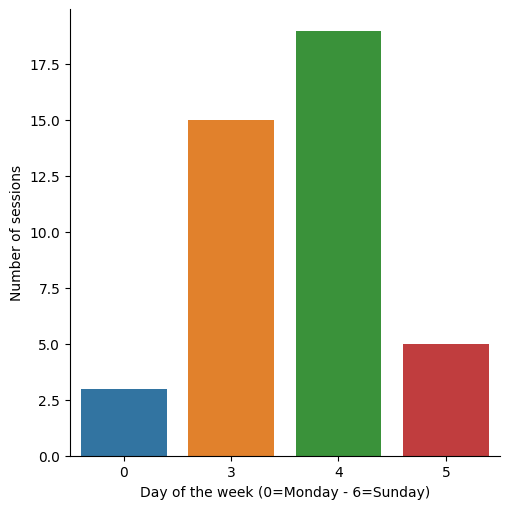
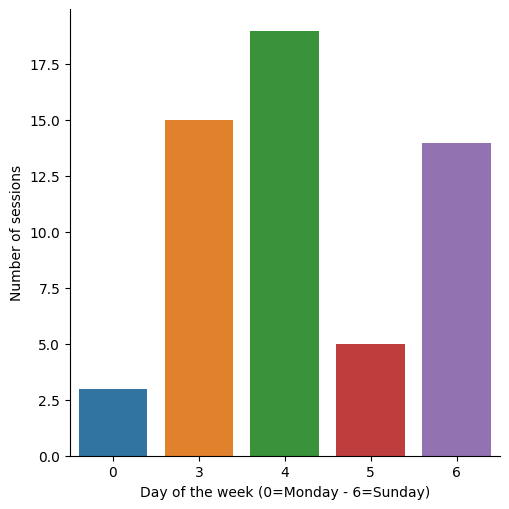
"Stats generated 2021-10-11"

diff --git a/all/2021/10/weekdays/6/index.html b/all/2021/10/weekdays/6/index.html
@@ -1,0 +1,29 @@
+<!DOCTYPE html>
+<html>
+  <head>
+    <meta charset="utf-8"/>
+    <title>Sundays October 2021</title>
+    <link rel="stylesheet" href="../../../../../styles.css"/>
+  </head>
+  <body>
+    <div id="container">
+      <nav>
+        <ul>
+          
+            <li><a href="../../">October 2021</a></li>
+            <li class="separator"></li>
+          
+          
+        </ul>
+      </nav>
+      <main>
+        <h1>Sundays October 2021</h1>
+        
+          <h2>Number of sessions per hour</h2>
+          <img src="sessions.png" alt="Number of sessions per hour"/>
+        
+        
+      </main>
+    </div>
+  </body>
+</html>

diff --git a/all/2021/10/days/10/index.html b/all/2021/10/days/10/index.html
@@ -1,0 +1,29 @@
+<!DOCTYPE html>
+<html>
+  <head>
+    <meta charset="utf-8"/>
+    <title>10 October 2021</title>
+    <link rel="stylesheet" href="../../../../../styles.css"/>
+  </head>
+  <body>
+    <div id="container">
+      <nav>
+        <ul>
+          
+            <li><a href="../../">October 2021</a></li>
+            <li class="separator"></li>
+          
+          
+        </ul>
+      </nav>
+      <main>
+        <h1>10 October 2021</h1>
+        
+          <h2>Number of sessions per hour</h2>
+          <img src="sessions.png" alt="Number of sessions per hour"/>
+        
+        
+      </main>
+    </div>
+  </body>
+</html>

diff --git a/all/2021/10/index.html b/all/2021/10/index.html
@@ -35,6 +35,10 @@
             
           
             
+              <li><a href="weekdays/6/">Sunday</a></li>
+            
+          
+            
               <li><span>Day of Month</span></li>
             
           
@@ -56,6 +60,10 @@
           
             
               <li><a href="days/9/">9</a></li>
+            
+          
+            
+              <li><a href="days/10/">10</a></li>
             
           
         </ul>

diff --git a/all/2021/index.html b/all/2021/index.html
@@ -143,9 +143,9 @@
                   
                     <td>10.0</td>
                   
-                    <td>42.0</td>
+                    <td>56.0</td>
                   
-                    <td>21.9383301</td>
+                    <td>22.43531958333333</td>
                   
                 </tr>
               
